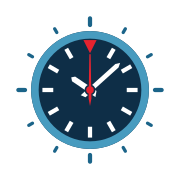
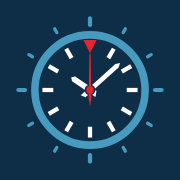
feat(brand): ícones "any" e do iOS com fundo petróleo (ADR-040) (#96)
icon-192/512 viram o tema escuro nível icon12 com cantos arredondados e
transparentes; apple-icon segue opaco (180 px). Combinam com o
background_color do manifest e com os maskable. SW VERSION v3 -> v4.

Claude-Session: https://claude.ai/code/session_01VDxbrneS3TEAUmdgVmkKpQ

diff --git a/public/sw.js b/public/sw.js
@@ -7,7 +7,7 @@
  *    responses, no authenticated data. Anything not matched goes straight to the network.
  * Bump VERSION to drop old caches.
  */
-const VERSION = "v3";
+const VERSION = "v4";
 const CACHE = `compasso-static-${VERSION}`;
 const OFFLINE_URL = "/offline";
 

diff --git a/CHANGELOG.md b/CHANGELOG.md
@@ -4,6 +4,9 @@ Formato inspirado em [Keep a Changelog](https://keepachangelog.com/pt-BR/1.1.0/)
 
 ## [Não lançado]
 
+### Identidade visual
+- O ícone do app instalado (PWA) e o ícone de tela de início do iOS passam a ter fundo azul-petróleo, em vez de branco: no ícone "any" os cantos são arredondados e transparentes; no do iOS o fundo é opaco (o sistema arredonda). Combinam com a tela de abertura e com o ícone adaptável do Android. Quem já instalou o app vê o novo ícone depois que o navegador atualizar o cache (service worker v4).
+
 ## [0.4.1] - 2026-10-16
 
 Nova identidade visual: o logo passa a ser um relógio, em versão vetorial, e os ícones do app foram refeitos. Não há mudança de funcionalidade.
